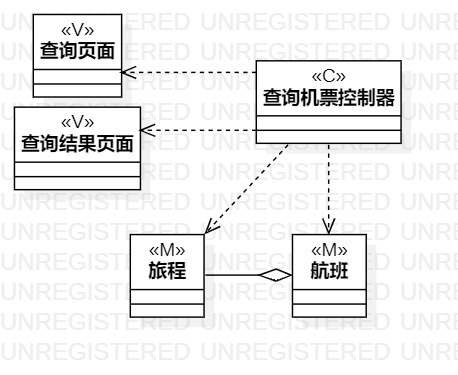
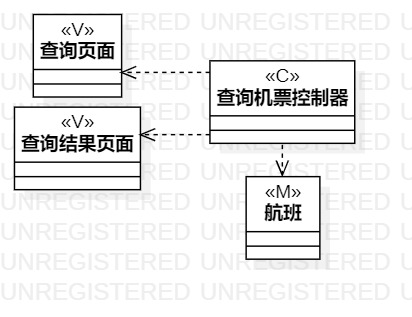
实验六 修改实验四五

diff --git a/students/1714080902316/lab6.md b/students/1714080902316/lab6.md
@@ -1,0 +1,35 @@
+# 实验六   交互建模
+## 一、实验目标
+
+1. 理解系统交互；
+2. 掌握UML顺序图的画法；
+3. 掌握对象交互的定义与建模方法。
+
+
+## 二、实验内容
+
+1. 根据用例模型和类模型，确定功能所涉及的系统对象；
+2. 在顺序图上画出参与者（对象）；
+3. 在顺序图上画出消息（交互）。
+
+
+## 三、实验步骤  
+
+1.在StarUML创建两个顺序图：  
+（1）查询机票；  
+（2）购票。  
+2.根据用例规约和活动图绘制顺序图。
+（1）查询机票；  
+参与者：旅行者；  
+系统对象：查询页面、查询结果页面、查询机票控制器、航班。  
+（2）购票。  
+参与者：旅行者；  
+系统对象：购票页面、购票控制器、订单。  
+
+## 四、实验结果
+
+![查询机票顺序图](./Lab6_SequenceDiagram1.jpg)  
+图1 查询机票顺序图
+
+![购票顺序图](./Lab6_SequenceDiagram2.jpg)  
+图2 购票顺序图

diff --git a/students/1714080902316/lab4.md b/students/1714080902316/lab4.md
@@ -21,11 +21,11 @@
 （2）购票。  
 2.采取mvc模式绘制类图：  
 （1）查询机票：  
-M：旅程，航班；  
+M：航班；  
 V：查询页面，查询结果页面；  
 C：查询机票控制器。  
 （2）购票：  
-M：旅行者、订单、凭证；  
+M：订单；
 V：购票页面；  
 C：查询机票控制器。  
 
